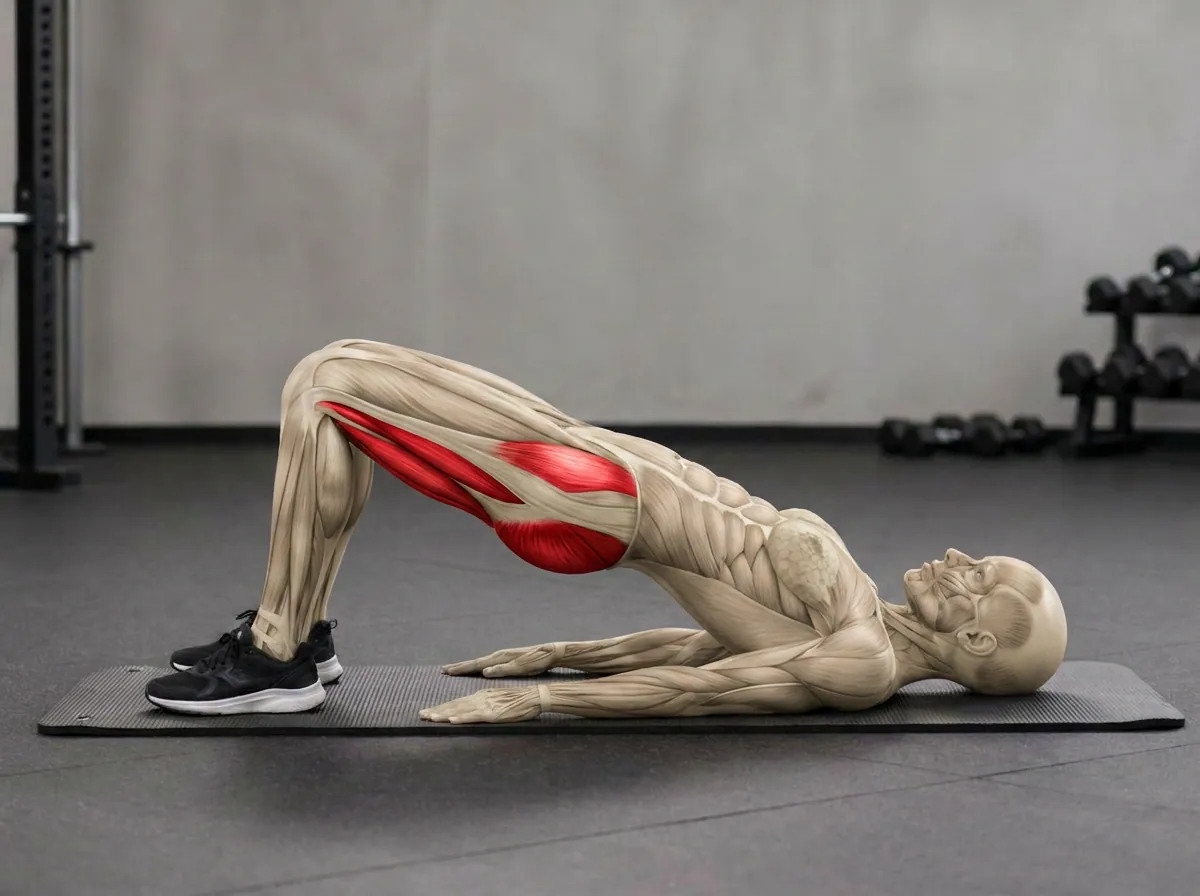
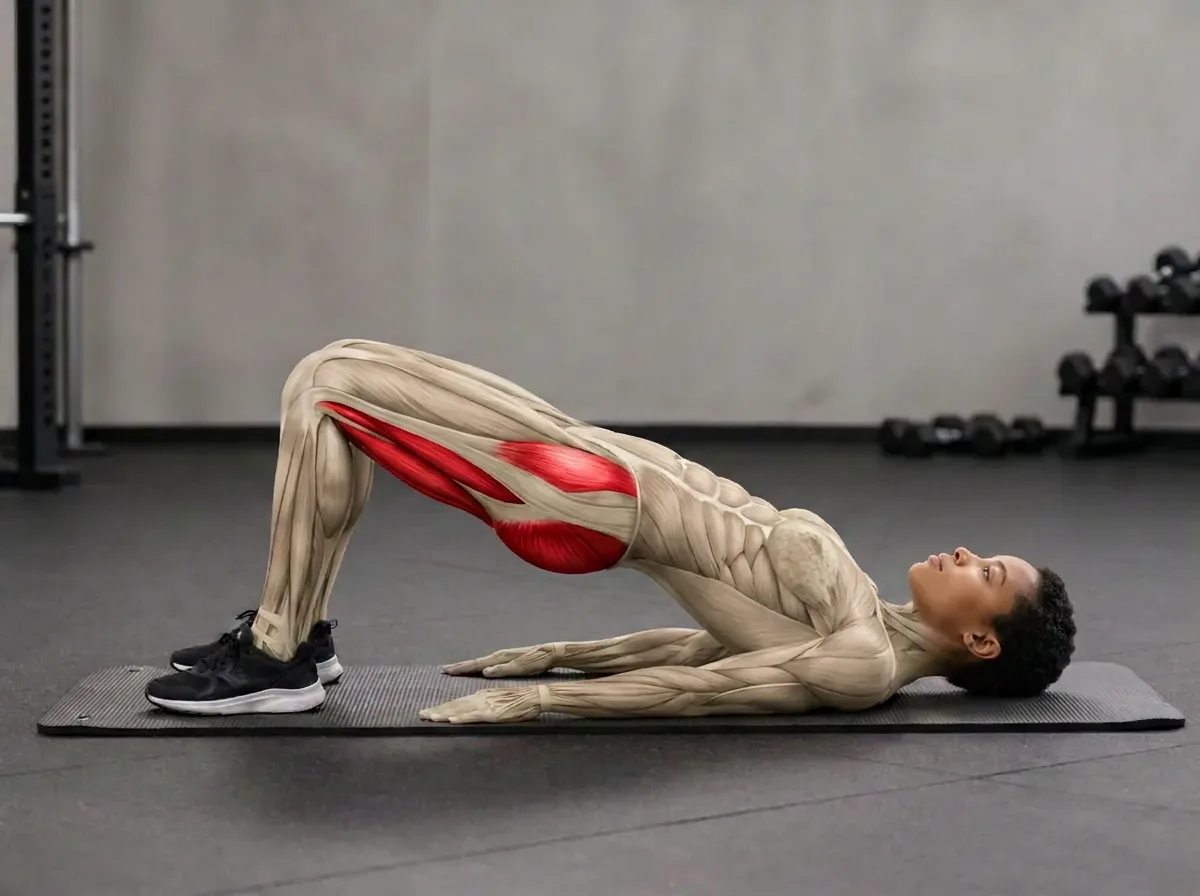
Imagens rodada 5: 8 exercicios de uma vez (6 por copia validada) e 3 rostos
Loop de imagens, iteracao 2. A alavanca da rodada foi a licao da
anterior levada ao limite: ANTES de gerar, comparar a matriz de
ativacao do pendente com a dos mapas ja aprovados. Papeis identicos =
copia byte a byte (deterministico, sem custo, sem risco de gerador).

POR COPIA (matriz validada par a par):
- flexao-apoio-elevado f+b <- flexao-de-braco (mesmos 4 musculos/papeis)
- supino-inclinado-halteres f+b <- supino-halteres
- triceps-testa-barra b <- triceps-frances-halter
- leg-press-horizontal f <- bulgaro (quads), b <- subida-step (gluteos)
- agachamento-elastico f <- bulgaro (quads)
- rosca-scott-maquina e rosca-banco-inclinado f <- rosca-elastico

GERADAS (2, ambas aprovadas de primeira):
- rosca-elastico-front: biceps escuro + braquiorradial medio no
  antebraco (musculo que a rosca-direta aprovada NAO tem; por isso nao
  era copia)
- agachamento-elastico-back: gluteo maximo medio, isquios ate a dobra,
  gluteo medio APAGADO (nao esta na matriz) e eretores em claro

ROSTOS: hip-thrust, ponte-gluteos e caminhada-esteira trocaram
musculatura facial exposta por cabeca humana com pele, tudo o mais
intacto. Fila de rostos confirmados: zerada (8 consertados no total;
varredura das analises restantes segue aberta).

Fila de mapa muscular: 63 -> 55 exercicios.

check:catalogo integro, 25 checks e build verdes.

Changed region(s): [[0.74, 0.5938, 0.8942, 0.7812]]

diff --git a/src/data/muscle-map-images.ts b/src/data/muscle-map-images.ts
@@ -43,6 +43,22 @@ export const muscleMapImages: Record<string, { front?: string; back?: string }> 
   "desenvolvimento-maquina": { front: "/anatomy/mm/desenvolvimento-maquina-front.webp", back: "/anatomy/mm/desenvolvimento-maquina-back.webp" },
   "remada-curvada-halteres": { front: "/anatomy/mm/remada-curvada-halteres-front.webp", back: "/anatomy/mm/remada-curvada-halteres-back.webp" },
   "triceps-frances-halter": { back: "/anatomy/mm/triceps-frances-halter-back.webp" },
+  /*
+   * PADRÃO IDÊNTICO SE COPIA, NÃO SE GERA. Os pares abaixo têm a MESMA matriz de
+   * ativação (mesmos músculos, mesmos papéis) de um exercício já aprovado, então o
+   * arquivo é cópia byte a byte do mapa aprovado: determinístico, sem custo e sem risco
+   * de o gerador inventar. Quando a matriz difere em qualquer músculo, gera-se de novo.
+   */
+  "flexao-apoio-elevado": { front: "/anatomy/mm/flexao-apoio-elevado-front.webp", back: "/anatomy/mm/flexao-apoio-elevado-back.webp" },
+  "triceps-testa-barra": { back: "/anatomy/mm/triceps-testa-barra-back.webp" },
+  "supino-inclinado-halteres": { front: "/anatomy/mm/supino-inclinado-halteres-front.webp", back: "/anatomy/mm/supino-inclinado-halteres-back.webp" },
+  "leg-press-horizontal": { front: "/anatomy/mm/leg-press-horizontal-front.webp", back: "/anatomy/mm/leg-press-horizontal-back.webp" },
+  "agachamento-elastico": { front: "/anatomy/mm/agachamento-elastico-front.webp", back: "/anatomy/mm/agachamento-elastico-back.webp" },
+  // As três roscas dividem a mesma matriz (bíceps primário, braquial e braquiorradial
+  // sinergistas): gerada uma vez para a rosca com elástico e copiada para as irmãs.
+  "rosca-elastico": { front: "/anatomy/mm/rosca-elastico-front.webp" },
+  "rosca-scott-maquina": { front: "/anatomy/mm/rosca-scott-maquina-front.webp" },
+  "rosca-banco-inclinado": { front: "/anatomy/mm/rosca-banco-inclinado-front.webp" },
 };
 
 export function getMuscleMapImages(slug?: string) {
